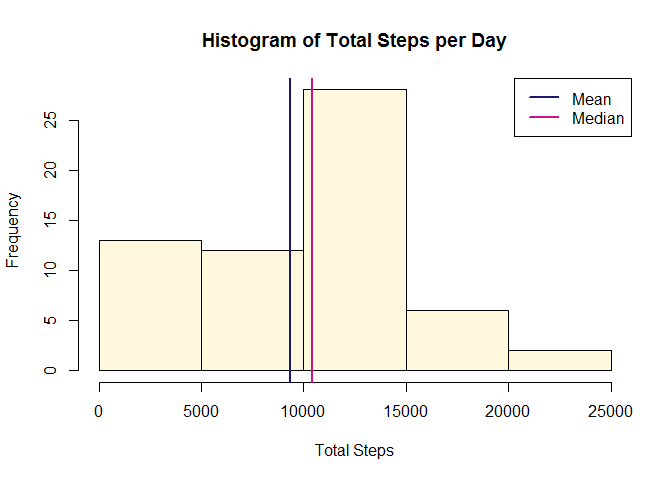
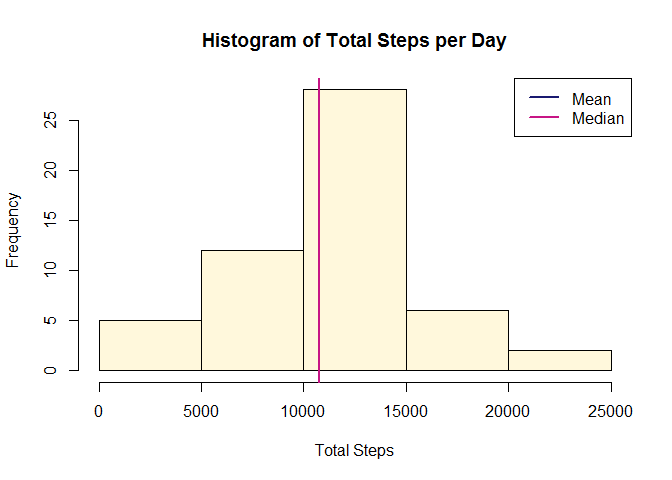
Revision2

Changed region(s): [[0.125, 0.5, 0.3125, 0.6875]]

diff --git a/PA1_template.html b/PA1_template.html
@@ -57,7 +57,7 @@ if (window.hljs && document.readyState && document.readyState === "complete") {
 
 <div id="loading-and-preprocessing-the-data" class="section level2">
 <h2>Loading and preprocessing the data</h2>
-<p>These steps will unzip the data file and read the data in R. Because the zipped file already exists in the directory, no additional steps were needed to download the file.</p>
+<p>These steps will unzip the data file and read the data in R. Because the zipped file already exists in the directory, no additional steps were needed to download the file. Just to get a sense of the data set that is involved, a snippet is displayed here.</p>
 <pre class="r"><code>temp &lt;- &quot;activity.zip&quot;
 unzip(temp)
 activity &lt;- read.csv(&quot;activity.csv&quot;, na.strings = &quot;NA&quot;)
@@ -72,24 +72,26 @@ str(activity)</code></pre>
 library(dplyr)
 library(ggplot2)
 library(scales)</code></pre>
-<p>Certain configurations for the knitr package will help to save figures appropriately.</p>
+<p>Certain global configurations for the knitr package will help to save figures appropriately, and display the R code and results as needed.</p>
 <pre class="r"><code>knitr::opts_chunk$set(comment=NA, fig.path='figure/', echo=TRUE, warning=FALSE, message=FALSE)</code></pre>
 </div>
 <div id="what-is-mean-total-number-of-steps-taken-per-day" class="section level2">
 <h2>What is mean total number of steps taken per day?</h2>
-<p>The first analysis performed on the data was to find the total number of steps per day, and look a the results in a histogram.</p>
-<pre class="r"><code>sumSteps &lt;- tapply(activity$steps, activity$date, sum, na.rm=TRUE)
+<p>The first analysis performed on the data was to find the total number of steps per day, and look at the results in a histogram, and evaluate the mean and median values. Because the mean and median values are so close, it is hard to distinguish them on the graph. The actual numbers are shown below the graph.</p>
+<pre class="r"><code>grp &lt;- filter(activity,!is.na(activity$steps))
+grp &lt;- group_by(grp, date)
+grp &lt;- summarise_each(grp, funs(sum), steps)
 
-hist(sumSteps, main =&quot;Histogram of Total Steps per Day&quot;, xlab = &quot;Total Steps&quot;, 
+hist(grp$steps, main =&quot;Histogram of Total Steps per Day&quot;, xlab = &quot;Total Steps&quot;, 
      col = &quot;cornsilk&quot;)
-abline(v = mean(sumSteps), col = &quot;midnightblue&quot;, lwd = 2)
-abline(v = median(sumSteps), col = &quot;mediumvioletred&quot;, lwd = 2)
+abline(v = mean(grp$steps), col = &quot;midnightblue&quot;, lwd = 2)
+abline(v = median(grp$steps), col = &quot;mediumvioletred&quot;, lwd = 2)
 legend(x = &quot;topright&quot;, c(&quot;Mean&quot;, &quot;Median&quot;), col = c(&quot;midnightblue&quot;, &quot;mediumvioletred&quot;), lwd = c(2,2))</code></pre>
[1 lines of base64/hex data omitted]
-<pre class="r"><code>mean(sumSteps)</code></pre>
-<pre><code>[1] 9354.23</code></pre>
-<pre class="r"><code>median(sumSteps)</code></pre>
-<pre><code>[1] 10395</code></pre>
[1 lines of base64/hex data omitted]
+<pre class="r"><code>mean(grp$steps)</code></pre>
+<pre><code>[1] 10766.19</code></pre>
+<pre class="r"><code>median(grp$steps)</code></pre>
+<pre><code>[1] 10765</code></pre>
 </div>
 <div id="what-is-the-average-daily-activity-pattern" class="section level2">
 <h2>What is the average daily activity pattern?</h2>
@@ -107,17 +109,17 @@ plot(interval, avgSteps, type = &quot;l&quot;, main = &quot;Daily Activity Patte
 </div>
 <div id="imputing-missing-values" class="section level2">
 <h2>Imputing missing values</h2>
-<p>There are a number of missing (NA) values the steps column in the original data set.</p>
+<p>There are a number of missing (NA) values the steps column in the original data set - 2304 to be exact.</p>
 <pre class="r"><code>length(which(is.na(activity$steps)))</code></pre>
 <pre><code>[1] 2304</code></pre>
-<p>To understand the bias of these values on the calculations, a new data set was created that replaces the NA values for a given interval by the average for that interval across all days. This uses the average values from the previous analysis, and these were spread across each day in order to be used as replacement values. The columns in the new data set look the same as the original data set, but the NAs have all been replaced, as shown by the output below.</p>
+<p>To understand the bias of these values on the calculations, a new data set was created that replaces the NA values for a given interval by the average for that interval across all days. This uses the average interval values from the previous analysis, and these were spread across each day in order to be used as replacement values. The columns in the new data set look the same as the original data set, but the NAs have all been replaced, as shown by the output below.</p>
 <pre class="r"><code>newValue &lt;- round(rep(as.vector(unlist(avgSteps)), times = 61), digits = 0)
 newActivity &lt;- cbind(activity, newValue)
 newActivity$steps &lt;- ifelse(is.na(newActivity$steps), newActivity$newValue, newActivity$steps)
 newActivity &lt;- select(newActivity, 1:3)
 length(which(is.na(newActivity$steps)))</code></pre>
 <pre><code>[1] 0</code></pre>
-<p>The impact of this on total number of steps per day as well as the mean and median values is fairly significant from the original data set. The original data set has a much wider variation between mean and median (9345 and 10395 respectively), while they are almost identical in the new data set.</p>
+<p>The impact of this on total number of steps per day as well as the mean and median values is not that significant from the original data set. The original data set had almost identical mean and median values - about a 1 step difference. In the revised data set, there is slightly more variation - about 3 steps. The method used to replace the NA values could have caused this lack of difference in the data sets. If an interval had many NA values across all days, the average for that interval is likely to be very small as well. Using a daily average as the NA replacement value could have created more variation.</p>
 <pre class="r"><code>newSteps &lt;- tapply(newActivity$steps, newActivity$date, sum)
 
 hist(newSteps, main =&quot;Histogram of Total Steps per Day - Imputed Values&quot;, 

diff --git a/PA1_template.md b/PA1_template.md
@@ -2,7 +2,7 @@
 
 
 ## Loading and preprocessing the data
-These steps will unzip the data file and read the data in R.  Because the zipped file already exists in the directory, no additional steps were needed to download the file.
+These steps will unzip the data file and read the data in R.  Because the zipped file already exists in the directory, no additional steps were needed to download the file.  Just to get a sense of the data set that is involved, a snippet is displayed here.
 
 
 ```r
@@ -30,7 +30,7 @@ library(ggplot2)
 library(scales)
 ```
 
-Certain configurations for the knitr package will help to save figures appropriately.
+Certain global configurations for the knitr package will help to save figures appropriately, and display the R code and results as needed.
 
 
 ```r
@@ -38,35 +38,37 @@ knitr::opts_chunk$set(comment=NA, fig.path='figure/', echo=TRUE, warning=FALSE, 
 ```
 
 ## What is mean total number of steps taken per day?
-The first analysis performed on the data was to find the total number of steps per day, and look a the results in a histogram.
+The first analysis performed on the data was to find the total number of steps per day, and look at the results in a histogram, and evaluate the mean and median values.  Because the mean and median values are so close, it is hard to distinguish them on the graph.  The actual numbers are shown below the graph.
 
 
 ```r
-sumSteps <- tapply(activity$steps, activity$date, sum, na.rm=TRUE)
+grp <- filter(activity,!is.na(activity$steps))
+grp <- group_by(grp, date)
+grp <- summarise_each(grp, funs(sum), steps)
 
-hist(sumSteps, main ="Histogram of Total Steps per Day", xlab = "Total Steps", 
+hist(grp$steps, main ="Histogram of Total Steps per Day", xlab = "Total Steps", 
      col = "cornsilk")
-abline(v = mean(sumSteps), col = "midnightblue", lwd = 2)
-abline(v = median(sumSteps), col = "mediumvioletred", lwd = 2)
+abline(v = mean(grp$steps), col = "midnightblue", lwd = 2)
+abline(v = median(grp$steps), col = "mediumvioletred", lwd = 2)
 legend(x = "topright", c("Mean", "Median"), col = c("midnightblue", "mediumvioletred"), lwd = c(2,2))
 ```
 
 ![](figure/plot1-1.png) 
 
 ```r
-mean(sumSteps)
+mean(grp$steps)
 ```
 
 ```
-[1] 9354.23
+[1] 10766.19
 ```
 
 ```r
-median(sumSteps)
+median(grp$steps)
 ```
 
 ```
-[1] 10395
+[1] 10765
 ```
 
 ## What is the average daily activity pattern?
@@ -96,7 +98,8 @@ sprintf("%04d", as.numeric(names(which(avgSteps==max(avgSteps)))))
 ```
 
 ## Imputing missing values
-There are a number of missing (NA) values the steps column in the original data set. 
+There are a number of missing (NA) values the steps column in the original data set - 2304 to be exact.
+
 
 ```r
 length(which(is.na(activity$steps)))
@@ -106,7 +109,7 @@ length(which(is.na(activity$steps)))
 [1] 2304
 ```
 
-To understand the bias of these values on the calculations, a new data set was created that replaces the NA values for a given interval by the average for that interval across all days. This uses the average values from the previous analysis, and these were spread across each day in order to be used as replacement values.  The columns in the new data set look the same as the original data set, but the NAs have all been replaced, as shown by the output below. 
+To understand the bias of these values on the calculations, a new data set was created that replaces the NA values for a given interval by the average for that interval across all days. This uses the average interval values from the previous analysis, and these were spread across each day in order to be used as replacement values.  The columns in the new data set look the same as the original data set, but the NAs have all been replaced, as shown by the output below. 
 
 
 ```r
@@ -121,7 +124,7 @@ length(which(is.na(newActivity$steps)))
 [1] 0
 ```
 
-The impact of this on total number of steps per day as well as the mean and median values is fairly significant from the original data set. The original data set has a much wider variation between mean and median (9345 and 10395 respectively), while they are almost identical in the new data set.
+The impact of this on total number of steps per day as well as the mean and median values is not that significant from the original data set. The original data set had almost identical mean and median values - about a 1 step difference.  In the revised data set, there is slightly more variation - about 3 steps. The method used to replace the NA values could have caused this lack of difference in the data sets.  If an interval had many NA values across all days, the average for that interval is likely to be very small as well. Using a daily average as the NA replacement value could have created more variation. 
 
 
 ```r
